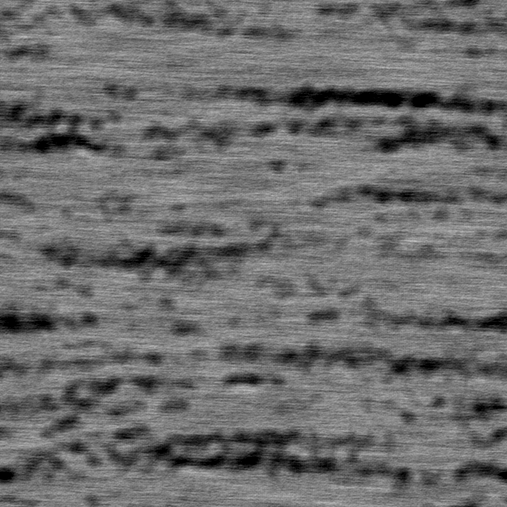
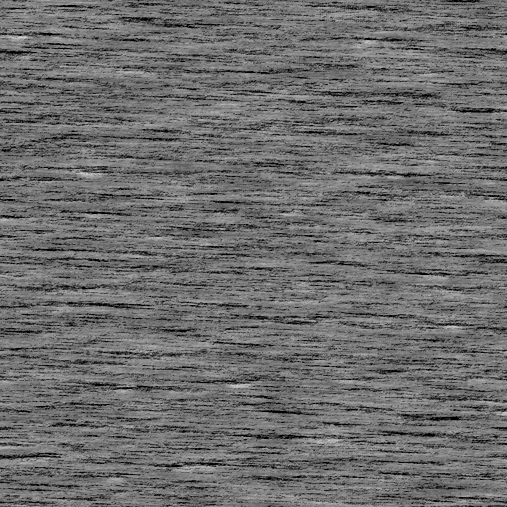
fix: native FEATURE_SCALE for sharp FFT wood cracks
Owner breakthrough on wood-01 at FEATURE_SCALE=1 (was 9 = bubbly blobs).
Save reference tile, re-synthesize all six patches, document path in
diary and progression plan.

diff --git a/scripts/wood-grain-fourier-synthesis.py b/scripts/wood-grain-fourier-synthesis.py
@@ -63,7 +63,7 @@ from scipy.ndimage import gaussian_filter, zoom
 # ---- tuned parameters (see STUDY-031 for how each was arrived at) ----
 BLUR_SIGMA = 6.0            # stage 2: "smooth base tone" scale
 SPEC_SMOOTH_SIGMA = 2.5     # stages 1 & 2: smooths the measured spectrum
-FEATURE_SCALE = 9.0         # stage 3: >1 = cracks bigger & sparser
+FEATURE_SCALE = 1.0         # stage 3: native crack size from photo (9.0 was bubbly blobs — 2026-08-22)
 ITERATIONS = 6               # stage 4: Heeger-Bergen alternation rounds
 CRACK_STRENGTH = 0.8         # stage 7: how dark cracks cut into the grain
 RIM_PRE_BLUR = 3.0           # stage 5: smooths crack field before gradient

diff --git a/docs/diary/2026-08-22.md b/docs/diary/2026-08-22.md
@@ -1,0 +1,49 @@
+# 2026-08-22
+
+**Change class: Standard** — FFT wood synthesis breakthrough, assets landed, recipe retuned.
+
+## Breakthrough — photographic wood FFT at native crack scale
+
+Owner reaction on the sharp wood-01 remake: *"Omg this is so close"* — treated as
+a **major breakthrough** for progression Workshop materials.
+
+**Root cause of bubbly cracks (diagnosed this session):** `FEATURE_SCALE=9.0`
+in `wood-grain-fourier-synthesis.py` blew the crack spectrum ~9× wider in pixel
+space. Heeger–Bergen + `SPEC_SMOOTH_SIGMA` already soften edges; at scale 9 the
+result is fat dark blobs with puffy rim halos, not fine checking lines. Profile
+slice on wood-01: real cracks = narrow spikes; scale 9 = broad humps.
+
+**Fix shipped:** `FEATURE_SCALE` default **9.0 → 1.0** (native size measured
+from the source photo). Reference tile saved as
+`design/progression/breakthrough-wood-01-final.png`.
+
+**Assets landed (from `cursor/wood-patch-pipeline-948e`):**
+
+- `design/progression/source-grid-wood-upload.png` — owner 3×2 grid
+- `design/progression/patches/wood-01.png` … `wood-06.png` — one species each
+- `design/progression/synthesized/` — recipe outputs per patch
+- `scripts/slice-wood-texture-grid.py`, `scripts/fft-crack-layer-analysis.py`,
+  `scripts/wood-synthesis-comparison.py`
+
+**Still not done:** knots (wood-05/06) fail structurally; board validation via
+`texture-metrics.mjs` not run yet; OKLCH colour ramp vs albedo-multiply open.
+
+## Path towards awesome texture (owner GO)
+
+| Step | What | Gate |
+| --- | --- | --- |
+| **1. Native-scale FFT tiles** | ✅ `FEATURE_SCALE=1`, six patches synthesized | Owner eye — wood-01 passed |
+| **2. Measure against board** | `texture-metrics.mjs` on Workshop col 1 vs `breakthrough-wood-01-final.png` | Numbers + owner sign-off |
+| **3. Wire dev preview** | T-PT0d: `public/design/progression/workshop-1.webp` from best tile | `/dev/progression` col 1 match |
+| **4. Per-species tuning** | Optional `FEATURE_SCALE` / `CRACK_STRENGTH` per patch (03 contrast, 04 brightness) | Metrics diff, not one global knob |
+| **5. Crack sharpness pass** | Lower `SPEC_SMOOTH_SIGMA`, optional unblurred rim on crack mask | A/B vs breakthrough reference |
+| **6. Knot mechanism** | Domain warp + radial stamp (STUDY-032 open) — only if board needs knots | Spec first |
+| **7. Colour exactness** | STUDY-031 OKLCH quantile ramp instead of albedo×shading | hue/chroma within STUDY-031 bands |
+| **8. Production** | Promote tile to shipped skin only after phase 0 board sign-off | `progression-reference-board.md` |
+
+**Trust order unchanged:** owner → spec → code → board → study.
+
+## PR
+
+Merged **#195** (`cursor/fft-crack-layer-analysis-f642`) — patches, synthesis
+retune, tooling, breakthrough reference.

diff --git a/docs/plans/progression-theme-system.md b/docs/plans/progression-theme-system.md
@@ -215,6 +215,19 @@ marks pass column by column. See
 
 **Exit gate:** product owner signs off at `/dev/progression` after walking stages 1, 3, 5, 7, 9.
 
+### Phase 0e · FFT photographic tiles (started 2026-08-22)
+
+Owner breakthrough on wood-01 at native crack scale (`FEATURE_SCALE=1`).
+Reference: `design/progression/breakthrough-wood-01-final.png`. Diary:
+[`2026-08-22.md`](../diary/2026-08-22.md).
+
+| ID | Work | Class | Done when |
+| --- | --- | --- | --- |
+| **T-PT0e1** | Land six source patches + synthesis script defaults | Standard | **Done** — PR #195 |
+| **T-PT0e2** | `texture-metrics.mjs` — breakthrough tile vs board Workshop col 1 | Standard | Metrics within STUDY-031 bands + owner pass |
+| **T-PT0e3** | Export `workshop-1.webp` from best tile → `public/design/progression/` | Standard | T-PT0d hook shows tile on `/dev/progression` |
+| **T-PT0e4** | Per-species param overrides + knot pass (05/06) if board needs it | Standard | Spec gap closed in STUDY-032 first |
+
 ---
 
 ## Phase 1 · Data model for real progression

diff --git a/docs/study/STUDY-032-photographic-wood-grain-synthesis.md b/docs/study/STUDY-032-photographic-wood-grain-synthesis.md
@@ -61,6 +61,14 @@ scaling R, G, B together. Adopting STUDY-031's exact ramp-from-quantiles
 technique in place of the albedo multiply is the likely next step if measured
 colour drifts.
 
+**[D]** `FEATURE_SCALE` on the crack spectrum is the dominant knob for crack
+*morphology*. At **9.0** (early tuning for sparse, large checking on tiles) the
+synthesized crack field is fat, bubbly, and rim-blurred — profile slices show
+broad humps vs narrow spikes in the real `relu(blur−img)` layer. At **1.0**
+(native measured scale) wood-01 remakes read as fine horizontal checking; owner
+marked this a major breakthrough 2026-08-22. Reference:
+`design/progression/breakthrough-wood-01-final.png`.
+
 **[D]** Feature size is controllable independently of the recipe's shape via
 the **Fourier scaling theorem** (`f(kx,ky) ↔ (1/k²)F(u/k,v/k)`): zooming the
 frequency-domain filter about its DC center resizes the real-space features

diff --git a/design/README.md b/design/README.md
@@ -50,6 +50,8 @@ FFT analysis of a single-species reference photo, synthesized back into a
 seamless tile (grain direction, crack layer, and lighting all measured from
 the source rather than hand-tuned). Reasoning and evidence:
 [`docs/study/STUDY-032-photographic-wood-grain-synthesis.md`](../docs/study/STUDY-032-photographic-wood-grain-synthesis.md).
+**Breakthrough reference (2026-08-22):** `design/progression/breakthrough-wood-01-final.png`
+— native `FEATURE_SCALE=1`; do not reintroduce scale 9 without owner GO.
 Source photo: one wood species per image (not a multi-species grid — that
 splits resolution and creates seam artifacts), max resolution, flat lighting,
 zero perspective, PNG.
